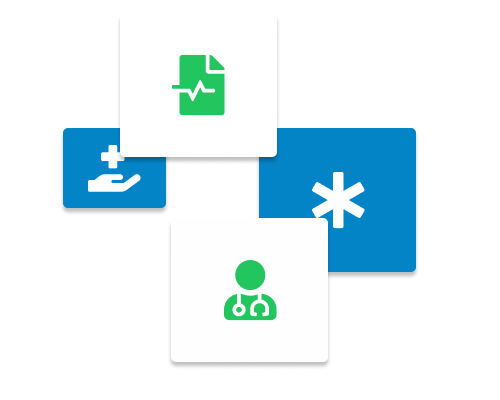
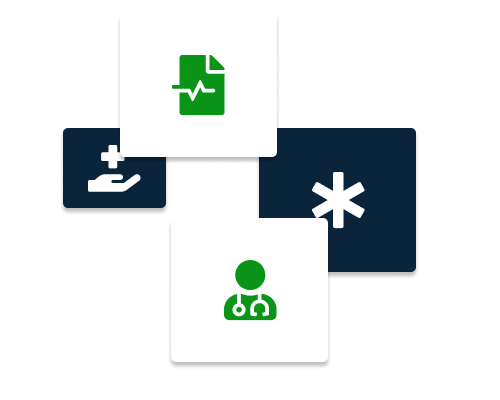
hero

diff --git a/pages/components/WhyIndia/index.jsx b/pages/components/WhyIndia/index.jsx
@@ -26,89 +26,122 @@ const WhyIndia = () => {
               </div>
             </div>
 
-
             <div className='w-full mt-20 grid md:grid-cols-2 gap-10'>
-
-
               <div className='w-full flex w-[60%] h-max flex flex-col gap-10'>
+                <p className='text-slate-700 text-justify'>
+                  India is one of the most popular destinations for medical
+                  tourism in the world. Every year, millions of people from
+                  different countries choose India for their medical needs,
+                  ranging from simple check-ups to complex surgeries. There are
+                  many reasons why India is the best choice for medical tourism,
+                  such as:
+                </p>
 
-                <p className='text-slate-700 text-justify'>India is one of the most popular destinations for medical tourism in the world. Every year, millions of people from different countries choose India for their medical needs, ranging from simple check-ups to complex surgeries. There are many reasons why India is the best choice for medical tourism, such as:</p>
-              
                 <div className='w-full flex flex-col gap-5'>
+                  <div className='relative gap-5 flex flex-col border-l-[5px] sm:border-l-[10px] duration-500 ease-in hover:border-sky-600 border-slate-300 pl-5 sm:pl-10'>
+                    <h1 className='text-xl text-teal-600 font-bold'>
+                      Cost-effective and affordable treatment options
+                    </h1>
+                    <p className='text-justify text-slate-800'>
+                      India offers high-quality medical care and treatment at a
+                      fraction of the cost compared to other countries. You can
+                      save up to 80% of the cost that you would incur in the US
+                      for the same treatment. For instance A heart bypass
+                      surgery costs $144,000 in the US, $25,000 in Costa Rica,
+                      but only $5,200 in India and liver transplant costs around
+                      $40,000, compared to $300,000 in the US.
+                    </p>
+                  </div>
 
-<div className='relative gap-5 flex flex-col border-l-[5px] sm:border-l-[10px] duration-500 ease-in hover:border-sky-600 border-slate-300 pl-5 sm:pl-10'>
-  <h1 className='text-xl text-teal-600 font-bold'>Cost-effective and affordable treatment options</h1>
-  <p className='text-justify text-slate-800'>
-  India offers high-quality medical care and treatment at a fraction of the cost compared to other countries. You can save up to 80% of the cost that you would incur in the US for the same treatment. For instance A heart bypass surgery costs $144,000 in the US, $25,000 in Costa Rica, but only $5,200 in India and liver transplant costs around $40,000, compared to $300,000 in the US.
-  </p>
-</div>
+                  <div className='relative gap-5 flex flex-col border-l-[5px] sm:border-l-[10px] duration-500 ease-in hover:border-sky-600 border-slate-300 pl-5 sm:pl-10'>
+                    <h1 className='text-xl text-teal-600 font-bold'>
+                      High-quality medical care and treatment facilities
+                    </h1>
+                    <p className='text-justify text-slate-800'>
+                      Many of the doctors and surgeons working in India that
+                      offer healthcare services to international patients are
+                      highly trained and qualified with certification from
+                      western countries like the US, UK, Germany. Also, several
+                      medical centres all over India are accredited by
+                      well-known global organisations like ISO, JCAHO, and JCI,
+                      which shows that the medical facilities offered are of
+                      international standards. So, patients coming to India for
+                      availing treatment can be sure that they get quality
+                      treatment and medical care.
+                    </p>
+                  </div>
 
-<div className='relative gap-5 flex flex-col border-l-[5px] sm:border-l-[10px] duration-500 ease-in hover:border-sky-600 border-slate-300 pl-5 sm:pl-10'>
-  <h1 className='text-xl text-teal-600 font-bold'>High-quality medical care and treatment facilities</h1>
-  <p className='text-justify text-slate-800'>
-  Many of the doctors and surgeons working in India that offer healthcare services to international patients are highly trained and qualified with certification from western countries like the US, UK, Germany. Also, several medical centres all over India are accredited by well-known global organisations like ISO, JCAHO, and JCI, which shows that the medical facilities offered are of international standards. So, patients coming to India for availing treatment can be sure that they get quality treatment and medical care.
-  </p>
-</div>
+                  <div className='relative gap-5 flex flex-col border-l-[5px] sm:border-l-[10px] duration-500 ease-in hover:border-sky-600 border-slate-300 pl-5 sm:pl-10'>
+                    <h1 className='text-xl text-teal-600 font-bold'>
+                      Immediate service
+                    </h1>
+                    <p className='text-justify text-slate-800'>
+                      Patients from overseas are given immediate access to
+                      health care services. Medical tourism allows them to be
+                      placed on the priority list, and when dealing with health
+                      matters, waiting is not an option always. You can book
+                      your appointment and schedule your surgery easily through
+                      the internet or phone.
+                    </p>
+                  </div>
 
-<div className='relative gap-5 flex flex-col border-l-[5px] sm:border-l-[10px] duration-500 ease-in hover:border-sky-600 border-slate-300 pl-5 sm:pl-10'>
-  <h1 className='text-xl text-teal-600 font-bold'>Immediate service</h1>
-  <p className='text-justify text-slate-800'>
-  Patients from overseas are given immediate access to health care services. Medical tourism allows them to be placed on the priority list, and when dealing with health matters, waiting is not an option always. You can book your appointment and schedule your surgery easily through the internet or phone.
-  </p>
-</div>
+                  <div className='relative gap-5 flex flex-col border-l-[5px] sm:border-l-[10px] duration-500 ease-in hover:border-sky-600 border-slate-300 pl-5 sm:pl-10'>
+                    <h1 className='text-xl text-teal-600 font-bold'>
+                      Well-connected flight and excellent communication services
+                    </h1>
+                    <p className='text-justify text-slate-800'>
+                      India has a simple and quick medical visa application
+                      process. This eliminates the hassles of visiting the
+                      hospitals for assessments, and then shortlist the
+                      hospital. The only time you have to leave your home is on
+                      the day or week of the surgery. The well-connected flight
+                      services help you visit any city of your choice where the
+                      hospital is located.
+                    </p>
+                  </div>
 
-<div className='relative gap-5 flex flex-col border-l-[5px] sm:border-l-[10px] duration-500 ease-in hover:border-sky-600 border-slate-300 pl-5 sm:pl-10'>
-  <h1 className='text-xl text-teal-600 font-bold'>Well-connected flight and excellent communication services</h1>
-  <p className='text-justify text-slate-800'>
-  India has a simple and quick medical visa application process. This eliminates the hassles of visiting the hospitals for assessments, and then shortlist the hospital. The only time you have to leave your home is on the day or week of the surgery. The well-connected flight services help you visit any city of your choice where the hospital is located.
-  </p>
-</div>
-
-<div className='relative gap-5 flex flex-col border-l-[5px] sm:border-l-[10px] duration-500 ease-in hover:border-sky-600 border-slate-300 pl-5 sm:pl-10'>
-  <h1 className='text-xl text-teal-600 font-bold'>Opportunity to travel</h1>
-  <p className='text-justify text-slate-800'>
-  Even though medical tourism is all about getting the best medical care at an affordable cost, a side benefit is that it gives you the chance to travel to a new country. India is a land of rich culture, heritage, and diversity. You can explore its various attractions, such as historical monuments, natural wonders, religious sites, and more. You can also enjoy its cuisine, music, art, and festivals. 
-  </p>
-</div>
-
-
-
+                  <div className='relative gap-5 flex flex-col border-l-[5px] sm:border-l-[10px] duration-500 ease-in hover:border-sky-600 border-slate-300 pl-5 sm:pl-10'>
+                    <h1 className='text-xl text-teal-600 font-bold'>
+                      Opportunity to travel
+                    </h1>
+                    <p className='text-justify text-slate-800'>
+                      Even though medical tourism is all about getting the best
+                      medical care at an affordable cost, a side benefit is that
+                      it gives you the chance to travel to a new country. India
+                      is a land of rich culture, heritage, and diversity. You
+                      can explore its various attractions, such as historical
+                      monuments, natural wonders, religious sites, and more. You
+                      can also enjoy its cuisine, music, art, and festivals.
+                    </p>
+                  </div>
                 </div>
               </div>
 
-
               <div className='w-full h-96 sm:h-[600px] md:h-full relative'>
-
-
-                <div className="w-32 sm:w-52 h-32 sm:h-52 absolute top-0 overflow-hidden left-0 neu">
+                <div className='w-32 sm:w-52 h-32 sm:h-52 absolute top-0 overflow-hidden left-0 neu'>
                   <div className='w-full h-full relative'>
                     <Image src='/images/india/india1.jpg' fill alt='india1' />
                   </div>
                 </div>
 
-                <div className="w-32 sm:w-52 h-32 sm:h-52 absolute bottom-0 overflow-hidden right-0 neu">
+                <div className='w-32 sm:w-52 h-32 sm:h-52 absolute bottom-0 overflow-hidden right-0 neu'>
                   <div className='w-full h-full relative'>
                     <Image src='/images/india/india2.jpg' fill alt='india2' />
                   </div>
                 </div>
 
-
-                <div className="w-32 sm:w-52 h-32 sm:h-52 absolute top-[25%] overflow-hidden right-0 neu">
+                <div className='w-32 sm:w-52 h-32 sm:h-52 absolute top-[25%] overflow-hidden right-0 neu'>
                   <div className='w-full h-full relative'>
                     <Image src='/images/india/india3.jpg' fill alt='india3' />
                   </div>
                 </div>
 
-                <div className="w-32 sm:w-52 h-32 sm:h-52 absolute bottom-[25%] overflow-hidden left-0 neu">
+                <div className='w-32 sm:w-52 h-32 sm:h-52 absolute bottom-[25%] overflow-hidden left-0 neu'>
                   <div className='w-full h-full relative'>
                     <Image src='/images/india/india4.jpg' fill alt='india4' />
                   </div>
                 </div>
-
-
               </div>
-
-
             </div>
           </div>
         </div>

diff --git a/pages/components/Footer/index.jsx b/pages/components/Footer/index.jsx
@@ -1,7 +1,11 @@
 import React from 'react';
 import Image from 'next/image';
 import Link from 'next/link';
-import { AiOutlineInstagram, AiOutlineLinkedin, AiOutlineTwitter } from 'react-icons/ai';
+import {
+  AiOutlineInstagram,
+  AiOutlineLinkedin,
+  AiOutlineTwitter,
+} from 'react-icons/ai';
 
 const Footer = () => {
   return (
@@ -36,7 +40,7 @@ const Footer = () => {
                 </p>
                 <div className='flex items-center'>
                   <a
-                  target='_blank'
+                    target='_blank'
                     href='https://instagram.com/healthscopemedicaltourism?igshid=OGQ5ZDc2ODk2ZA=='
                     aria-label='social-link'
                     className='mr-6 text-gray-200'
@@ -46,24 +50,24 @@ const Footer = () => {
                     </span>
                   </a>
                   <a
-                  target='_blank'
+                    target='_blank'
                     href='https://x.com/healthscoperw?s=21'
                     aria-label='social-link'
                     className='mr-6 text-gray-200'
                   >
-                  <span className='text-3xl'>
-                    <AiOutlineTwitter />
-                  </span>
+                    <span className='text-3xl'>
+                      <AiOutlineTwitter />
+                    </span>
                   </a>
                   <a
-                  target='_blank'
+                    target='_blank'
                     href='https://www.linkedin.com/in/health-scope-medical-tourism-343794390'
                     aria-label='social-link'
                     className='mr-6 text-gray-200'
                   >
-                  <span className='text-3xl'>
-                    <AiOutlineLinkedin />
-                  </span>
+                    <span className='text-3xl'>
+                      <AiOutlineLinkedin />
+                    </span>
                   </a>
                 </div>
               </div>
@@ -143,11 +147,7 @@ const Footer = () => {
           </div>
         </div>
         <div className='bg-primary/10 py-8'>
-          <div className='container'>
-            <p className='text-center text-base text-body-color dark:text-white'>
-              .
-            </p>
-          </div>
+          <div className='container'></div>
         </div>
         <div className='absolute right-0 top-14 z-[-1]'>
           <svg

diff --git a/pages/components/Features/index.jsx b/pages/components/Features/index.jsx
@@ -14,7 +14,7 @@ const Features = () => {
     <>
       <section
         id='features'
-        className='text-gray-700 overflow-x-hidden bg-sky-600 flex justify-center relative px-5 md:px-20'
+        className='text-gray-700 overflow-x-hidden bg-health-blue flex justify-center relative px-5 md:px-20'
       >
         <div className='container'>
           <div className='grid z-10 py-20 md:gap-20 relative md:grid-cols-2'>
@@ -22,7 +22,7 @@ const Features = () => {
               <div className='w-[0.5px] bg-gray-100 h-[200px] absolute left-10 -top-40 z-10'></div>
 
               <div className='w-20 shrink-0 h-full flex justify-center pt-10'>
-                <div className='w-10 text-red-600 bg-sky-600 relative z-20 flex items-center justify-center text-xl h-10 rounded-full border'>
+                <div className='w-10 text-red-600 bg-health-blue relative z-20 flex items-center justify-center text-xl h-10 rounded-full border'>
                   <AiOutlineHome />
                 </div>
               </div>
@@ -48,7 +48,7 @@ const Features = () => {
             <div className='grid'>
               <div className='relative flex'>
                 <div className='w-20 shrink-0 h-full flex justify-center pt-10'>
-                  <div className='w-10 text-red-600 bg-sky-600 relative z-20 flex items-center justify-center text-xl h-10 rounded-full border'>
+                  <div className='w-10 text-red-600 bg-health-blue relative z-20 flex items-center justify-center text-xl h-10 rounded-full border'>
                     <AiOutlineExpand />
                   </div>
                 </div>
@@ -75,7 +75,7 @@ const Features = () => {
                 <div className='w-[0.5px] bg-gray-100 h-[550px] absolute left-10 -top-[500px] z-10'></div>
 
                 <div className='w-20 shrink-0 h-full flex justify-center pt-10'>
-                  <div className='w-10 text-red-600 bg-sky-600 relative z-20 flex items-center justify-center text-xl h-10 rounded-full border'>
+                  <div className='w-10 text-red-600 bg-health-blue relative z-20 flex items-center justify-center text-xl h-10 rounded-full border'>
                     <AiOutlineCompress />
                   </div>
                 </div>

diff --git a/styles/globals.css b/styles/globals.css
@@ -13,9 +13,37 @@ body {
   border-radius: 49% 51% 41% 59% / 25% 25% 75% 75%;
 }
 
+.bg-health-blue {
+  background: #0a253b;
+}
+
+.bg-health-green {
+  background: #0b9518;
+}
+
 .weird_shape {
   animation: rotate 10s linear infinite;
 }
+
+/* For Webkit browsers (Chrome, Safari) */
+::-webkit-scrollbar {
+  width: 8px; /* width of the scrollbar */
+}
+
+::-webkit-scrollbar-thumb {
+  background-color: #888; /* color of the thumb */
+  border-radius: 6px; /* roundness of the thumb */
+}
+
+::-webkit-scrollbar-track {
+  background-color: #f1f1f1; /* color of the track */
+}
+
+/* For Firefox and other browsers */
+/* Note: Firefox doesn't support customizing the scrollbar appearance directly.
+   You can use scrollbar-width and scrollbar-color properties, but it might not work in all scenarios. */
+scrollbar-width: thin;
+scrollbar-color: #888 #f1f1f1;
 
 @keyframes rotate {
   0% {
@@ -73,11 +101,6 @@ body {
 
 .text-xxs {
   font-size: 10px;
-}
-
-/* Hide scrollbar for Chrome, Safari and Opera */
-::-webkit-scrollbar {
-  display: none;
 }
 
 .head {
@@ -434,10 +457,8 @@ body {
   pointer-events: none;
 }
 
-
 .neu {
   border-radius: 50px;
-background: linear-gradient(225deg, #cacaca, #f0f0f0);
-box-shadow:  -20px 20px 60px #bebebe,
-             20px -20px 60px #ffffff;
+  background: linear-gradient(225deg, #cacaca, #f0f0f0);
+  box-shadow: -20px 20px 60px #bebebe, 20px -20px 60px #ffffff;
 }

diff --git a/pages/components/cae/index.jsx b/pages/components/cae/index.jsx
@@ -39,7 +39,7 @@ const CAE = () => {
             </p>
           </div>
 
-          <div className='w-full flex mt-5 overflow-x-auto relative h-60'>
+          <div className='w-full flex mt-5 overflow-x-auto relative h-66 py-3'>
             <div className='h-full w-max flex relative gap-5'>
               {Hospital.map((d, i) => (
                 <div
@@ -51,9 +51,7 @@ const CAE = () => {
                   </div>
 
                   <div>
-                    <h1 className='text-lg mt-2 font-bold'>
-                      {d.title}
-                    </h1>
+                    <h1 className='text-lg mt-2 font-bold'>{d.title}</h1>
                   </div>
                 </div>
               ))}

diff --git a/pages/components/Hero/index.jsx b/pages/components/Hero/index.jsx
@@ -54,7 +54,7 @@ const Hero = () => {
 
               <span className='w-max'>
                 <Link href='/en/values'>
-                  <button className=' flex items-baseline text-white'>
+                  <button className=' flex items-baseline bg-teal-300 rounded px-10 py-2 text-slate-950 gap-5'>
                     <span className=''> More </span>
                     <svg
                       viewBox='0 0 46 16'
